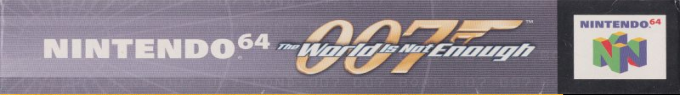
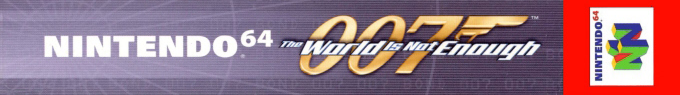
Updates
Swapped TWINE PAL spine to USA
Updated Dinosaur Planet spine (custom)
Added 40 Winks spine (custom)
Added 40 winks recomp (AI) for tracking.

diff --git a/postLinks.html b/postLinks.html
@@ -6923,6 +6923,9 @@
 					<div onclick="alert('[𝗣𝗦𝗔] 𝗧𝗛𝗜𝗦 𝗣𝗥𝗢𝗝𝗘𝗖𝗧 𝗨𝗦𝗘𝗦 𝗔𝗜');window.open('https://github.com/riseio/TWIPE_00Sheven')" class="AIicon" title="𝗩𝗜𝗦𝗜𝗧 𝗥𝗘𝗣𝗢"><img src="Blog/Spines/007 TWINE.png" width="100%;" style="border-radius:10px;" /></div>
 					<div onclick="alert('[𝗣𝗦𝗔] 𝗧𝗛𝗜𝗦 𝗣𝗥𝗢𝗝𝗘𝗖𝗧 𝗨𝗦𝗘𝗦 𝗔𝗜');window.open('https://github.com/riseio/TWIPE_00Sheven/releases')" class="AIDicon" title="𝗗𝗢𝗪𝗡𝗟𝗢𝗔𝗗"><i class="fa-solid fa-file-arrow-down"></i></div>
 					
+					<div onclick="alert('[𝗣𝗦𝗔] 𝗧𝗛𝗜𝗦 𝗣𝗥𝗢𝗝𝗘𝗖𝗧 𝗨𝗦𝗘𝗦 𝗔𝗜');window.open('https://github.com/DreaXer/40WinksRecomp')" class="AIicon" title="𝗩𝗜𝗦𝗜𝗧 𝗥𝗘𝗣𝗢"><img src="Blog/Spines/40 Winks.png" width="100%;" style="border-radius:10px;" /></div>
+					<div onclick="alert('[𝗣𝗦𝗔] 𝗧𝗛𝗜𝗦 𝗣𝗥𝗢𝗝𝗘𝗖𝗧 𝗨𝗦𝗘𝗦 𝗔𝗜');window.open('https://github.com/DreaXer/40WinksRecomp/releases')" class="AIDicon" title="𝗗𝗢𝗪𝗡𝗟𝗢𝗔𝗗"><i class="fa-solid fa-file-arrow-down"></i></div>
+					
 					<div onclick="alert('[𝗣𝗦𝗔] 𝗧𝗛𝗜𝗦 𝗣𝗥𝗢𝗝𝗘𝗖𝗧 𝗨𝗦𝗘𝗦 𝗔𝗜');window.open('https://github.com/thebradshaw/1080-Snowboarding-decomp')" class="AIicon" title="𝗩𝗜𝗦𝗜𝗧 𝗥𝗘𝗣𝗢"><img src="Blog/Spines/1080° Snowboarding.png" width="100%;" style="border-radius:10px;" /></div>
 					<div onclick="alert('[𝗣𝗦𝗔] 𝗧𝗛𝗜𝗦 𝗣𝗥𝗢𝗝𝗘𝗖𝗧 𝗨𝗦𝗘𝗦 𝗔𝗜');window.open('https://github.com/thebradshaw/1080-Snowboarding-decomp/releases')" class="AIDicon" title="𝗗𝗢𝗪𝗡𝗟𝗢𝗔𝗗"><i class="fa-solid fa-file-arrow-down"></i></div>
 					
